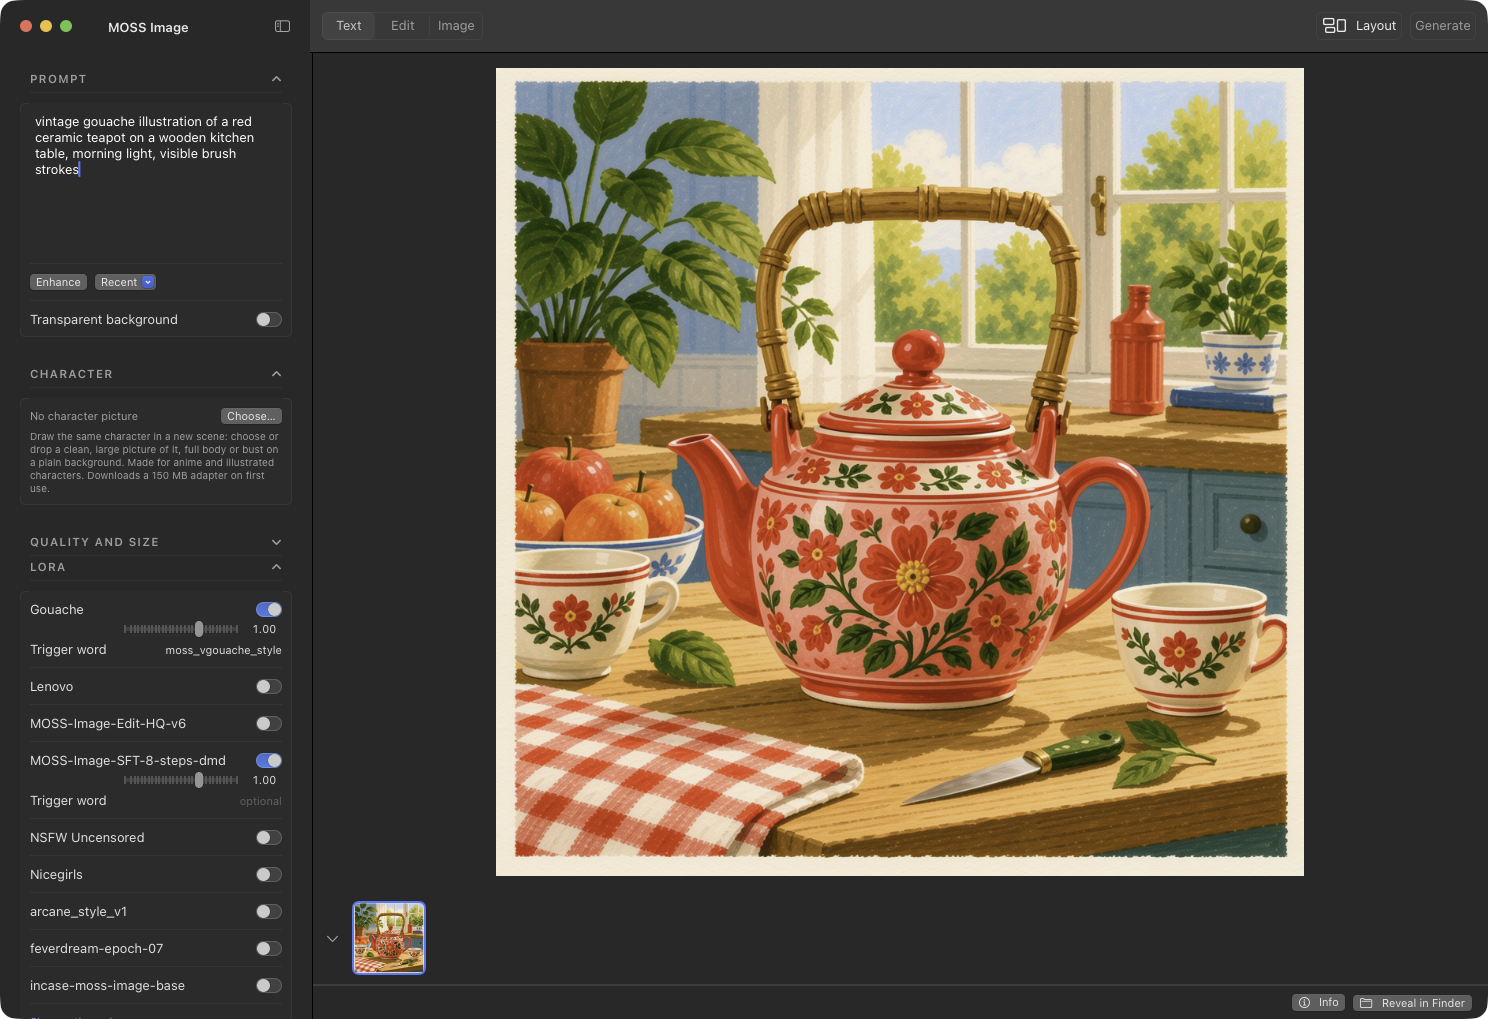
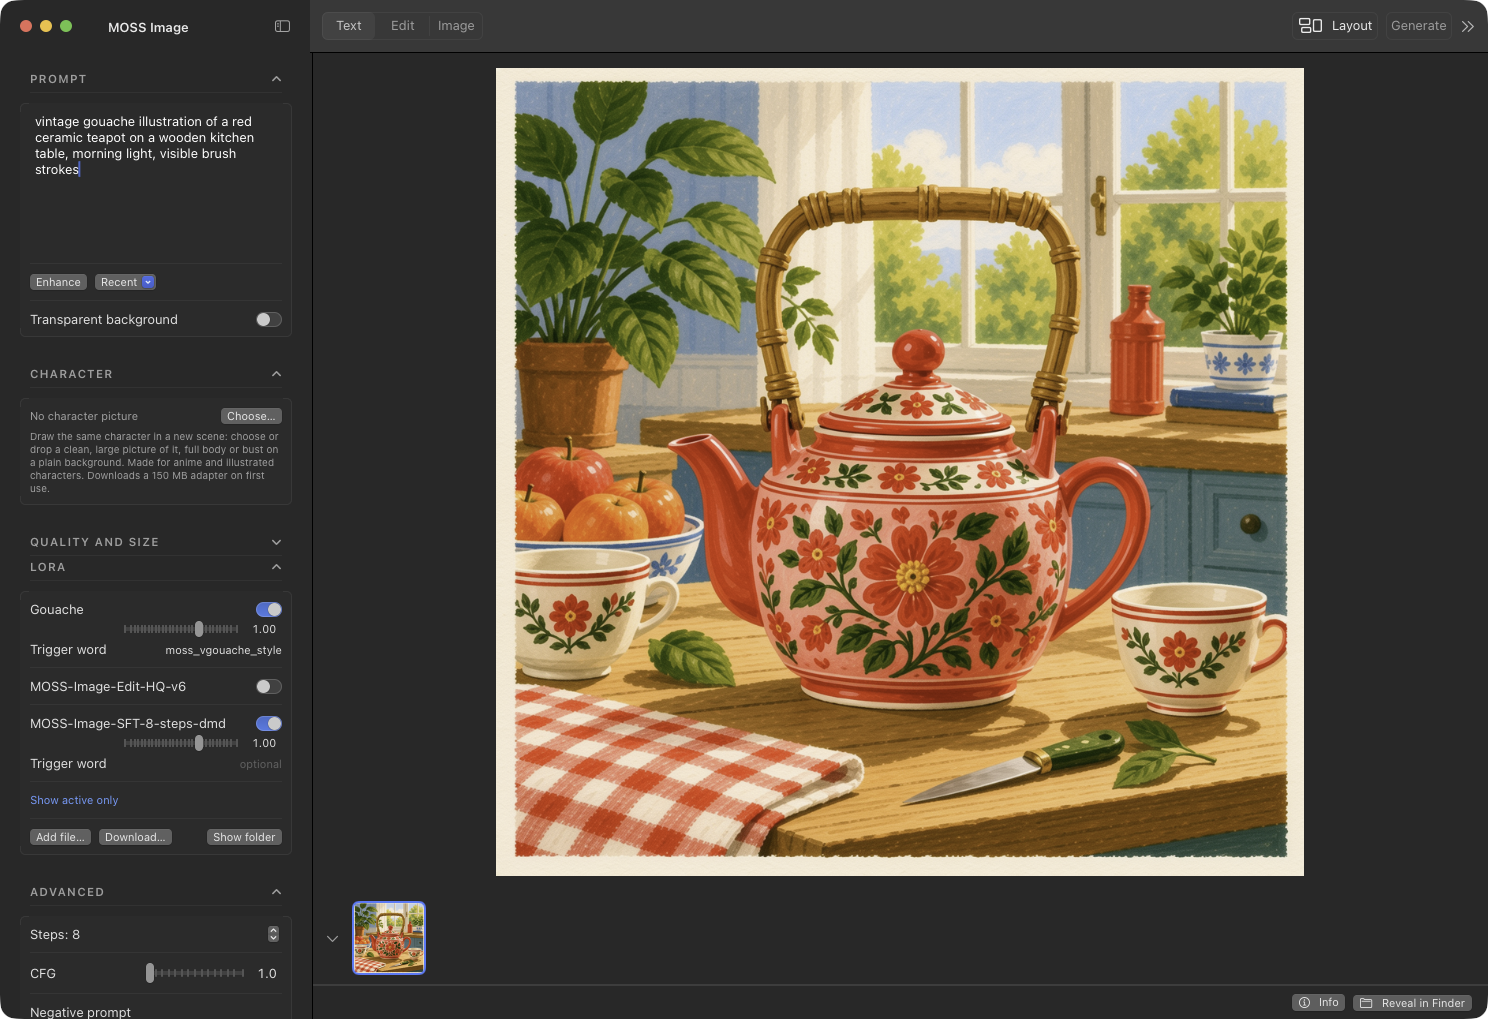
README: curated LoRA-library screenshot, no personal adapters or paths
The first library shot listed personal NSFW adapters; this one shows a
three-adapter library (Gouache, Edit-HQ, DMD) from a temp folder. OCR of
every README image finds no username or /Users/ path.

Changed region(s): [[0.0, 0.6693, 0.1855, 1.0], [0.8656, 0.0, 0.9892, 0.0304]]

diff --git a/README.md b/README.md
@@ -258,7 +258,7 @@ once, each with its own strength and trigger word; trigger words are added to th
 the adapter is on. The [lodestones 8-step DMD adapter](https://huggingface.co/lodestones/MOSS-Image-SFT-8-steps-dmd)
 is installed by default: 8 steps, no CFG, roughly 12× faster than the stock 50-step sampler.
 
-![The LoRA library: nine adapters, strengths and trigger words, with Add file, Download and Show folder](docs/lora-library.png)
+![The LoRA library: stacked adapters with their strengths and trigger words, plus Add file, Download and Show folder](docs/lora-library.png)
 
 ### Quality
 
